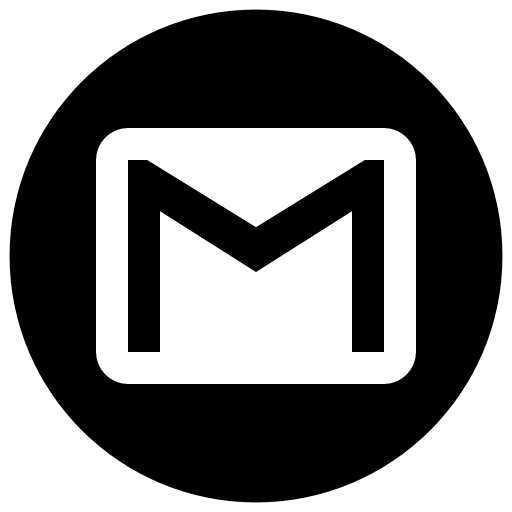
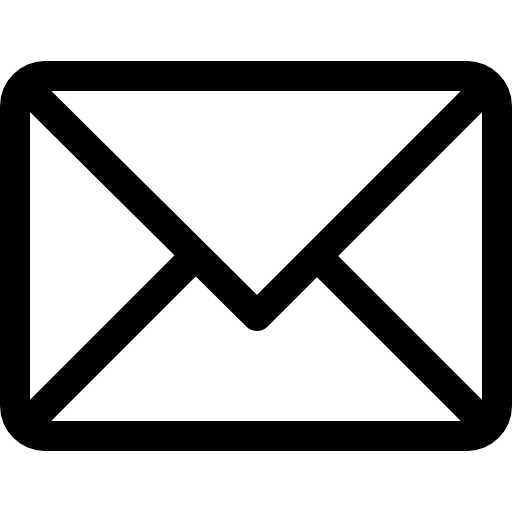
Correccion header responsive, iconos redes

diff --git a/styles/styles-from-sass.css b/styles/styles-from-sass.css
@@ -52,8 +52,7 @@ header {
     height: 8.125rem; }
   header .title1 {
     font-size: 3.6rem;
-    display: inline-block;
-    margin: 0%; }
+    display: inline-block; }
   header .title2 {
     display: inline-block;
     font-size: 1.6rem;
@@ -163,8 +162,7 @@ header {
     height: 8.125rem; }
   header .title1 {
     font-size: 3.6rem;
-    display: inline-block;
-    margin: 0%; }
+    display: inline-block; }
   header .title2 {
     display: inline-block;
     font-size: 1.6rem;
@@ -299,8 +297,7 @@ header {
     height: 8.125rem; }
   header .title1 {
     font-size: 3.6rem;
-    display: inline-block;
-    margin: 0%; }
+    display: inline-block; }
   header .title2 {
     display: inline-block;
     font-size: 1.6rem;
@@ -443,8 +440,7 @@ header {
     height: 8.125rem; }
   header .title1 {
     font-size: 3.6rem;
-    display: inline-block;
-    margin: 0%; }
+    display: inline-block; }
   header .title2 {
     display: inline-block;
     font-size: 1.6rem;
@@ -590,8 +586,7 @@ header {
     height: 8.125rem; }
   header .title1 {
     font-size: 3.6rem;
-    display: inline-block;
-    margin: 0%; }
+    display: inline-block; }
   header .title2 {
     display: inline-block;
     font-size: 1.6rem;
@@ -668,7 +663,7 @@ header {
 .botones {
   display: flex;
   flex-direction: column;
-  justify-content: flex-end;
+  align-items: center;
   margin: 0rem 1.25rem;
   border-radius: 5% !important; }
 
@@ -773,7 +768,7 @@ footer {
   .botones {
     display: flex;
     flex-direction: column;
-    align-items: flex-start; }
+    align-items: center; }
     .botones button {
       width: fit-content;
       margin: 0.3rem 0rem; }
@@ -872,14 +867,16 @@ footer {
         margin: 0rem; }
   .title1 {
     font-size: 0rem;
-    display: inline-block; }
+    display: inline-block;
+    margin: -1rem; }
     .title1 p {
       font-size: 2rem;
       display: inline-block;
-      margin: 0rem; }
+      padding: 0rem; }
   .title2 {
     font-size: 0rem;
-    display: inline-block; }
+    display: inline-block;
+    margin: -0.2rem; }
     .title2 p {
       display: inline-block;
       margin: 0rem;
@@ -901,7 +898,7 @@ footer {
     flex-wrap: nowrap;
     justify-content: center;
     align-content: space-evenly;
-    height: 13rem; }
+    height: fit-content; }
   .footer {
     flex-direction: column;
     justify-content: center; }
@@ -926,7 +923,8 @@ footer {
       margin: 0.625rem; }
   .botones {
     flex-direction: column;
-    align-items: center; }
+    align-items: center;
+    justify-content: center; }
     .botones button {
       width: 16.875rem;
       margin: 0.313rem 0rem; }

diff --git a/scss/_mediaqueries.scss b/scss/_mediaqueries.scss
@@ -53,7 +53,7 @@
 	.botones {
 		display: flex;
 		flex-direction: column;
-		align-items: flex-start;
+		align-items: center;
 		button {
 			width: fit-content;
 			margin: 0.3rem 0rem;
@@ -188,15 +188,17 @@
 	.title1 {
 		font-size: 0rem;
 		display: inline-block;
+		margin: -1rem;
 		p {
 			font-size: 2rem;
 			display: inline-block;
-			margin: 0rem;
+			padding: 0rem;
 		}
 	}
 	.title2 {
 		font-size: 0rem;
 		display: inline-block;
+		margin: -0.2rem;
 		p {
 			display: inline-block;
 			margin: 0rem;
@@ -225,7 +227,7 @@
 		flex-wrap: nowrap;
 		justify-content: center;
 		align-content: space-evenly;
-		height: 13rem;
+		height: fit-content;
 	}
 	.footer {
 		flex-direction: column;
@@ -259,6 +261,7 @@
 	.botones {
 		flex-direction: column;
 		align-items: center;
+		justify-content: center;
 		button {
 			width: 16.875rem;
 			margin: 0.313rem 0rem;

diff --git a/scss/_mixings.scss b/scss/_mixings.scss
@@ -9,6 +9,7 @@
 
     background-image: url(../imagenes/header2.svg);
     height: 11.875rem;
+    // height: fit-content;
     background-size: cover;
     position: sticky;
     display: flex;
@@ -25,7 +26,6 @@
     .title1 {
         font-size: 3.6rem;
         display: inline-block;
-        margin: 0%;
     }
 
     .title2 {

diff --git a/scss/_pag-contacto.scss b/scss/_pag-contacto.scss
@@ -65,7 +65,7 @@ header {
 .botones {
     display: flex;
     flex-direction: column;
-    justify-content: flex-end;
+    align-items: center;
     margin: 0rem 1.25rem;
     border-radius: 5% !important;
 }
